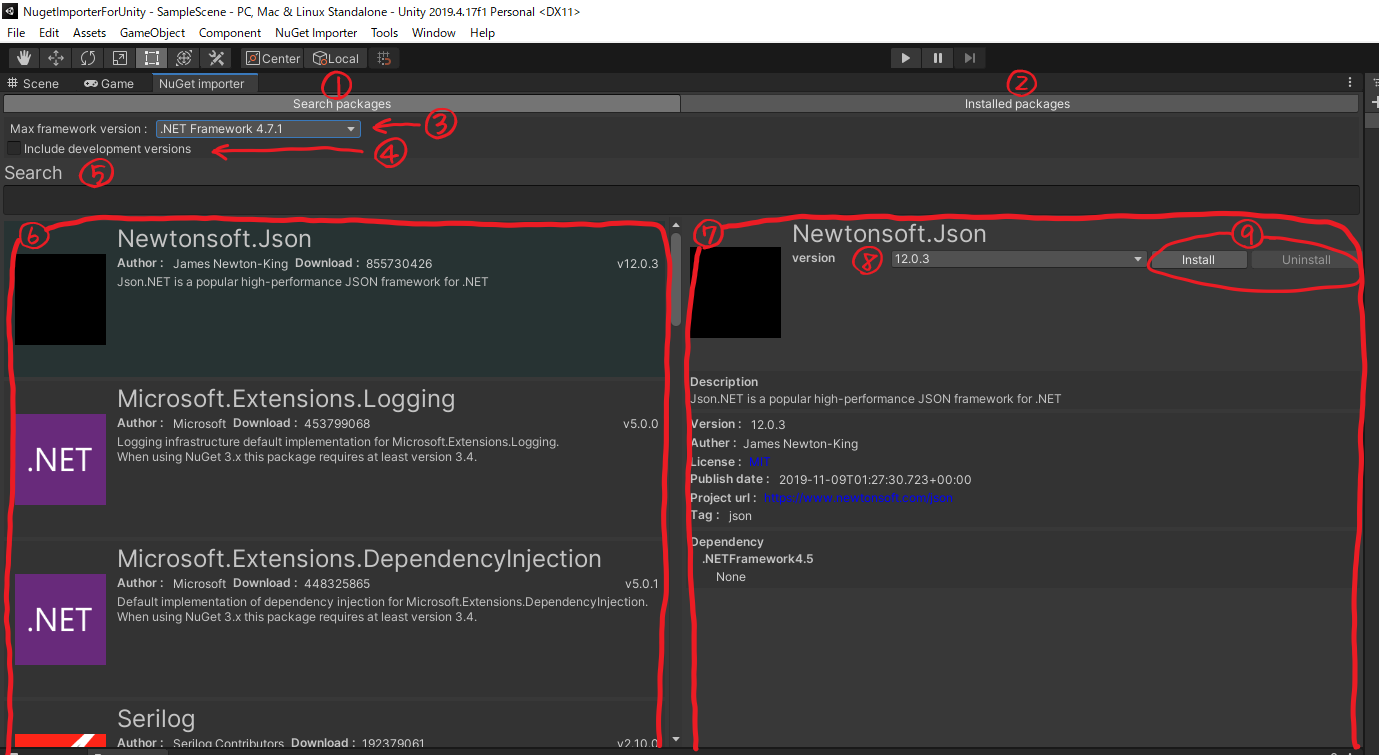
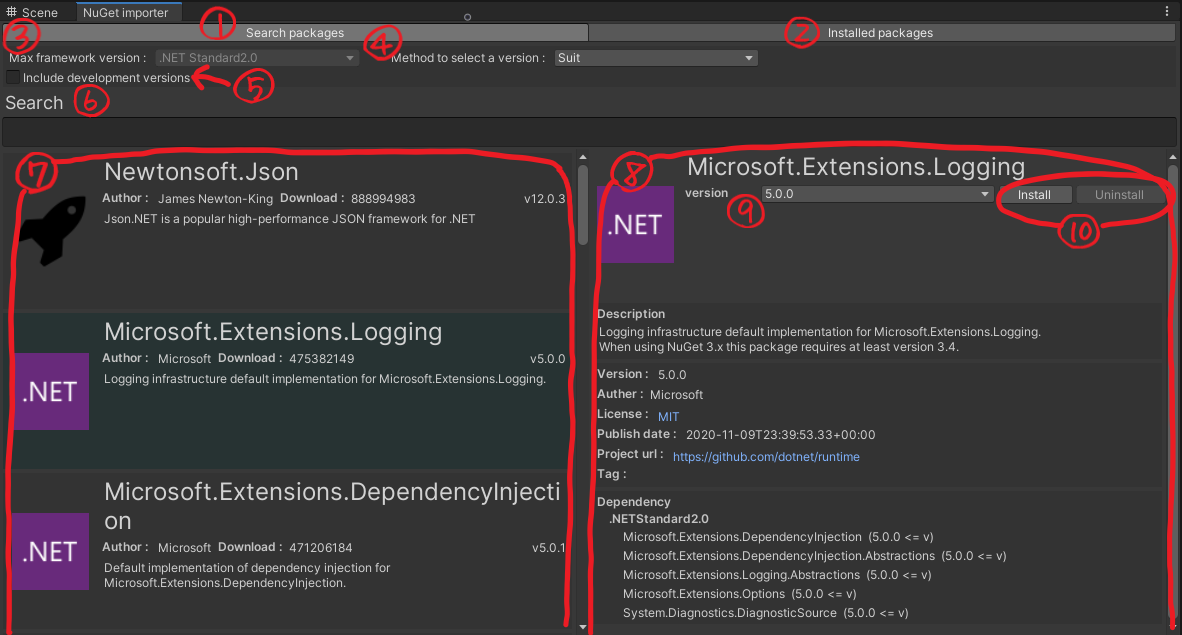
Update docments

Changed region(s): [[0.0, 0.0, 1.0, 1.0]]

diff --git a/docs/documentation_jp/usage.html b/docs/documentation_jp/usage.html
@@ -128,6 +128,7 @@
 <li>インストールされているものから検索するときのモード。</li>
 <li>フレームワークの設定。</li>
 <li>非安定版も含めるかどうか。</li>
+<li>依存関係のパッケージのバージョンの選択方法。</li>
 <li>検索語句の入力場所。（インクリメンタルサーチされる。）</li>
 <li>検索結果。</li>
 <li>パッケージの詳細情報。</li>

diff --git a/docs/documentation/usage.html b/docs/documentation/usage.html
@@ -127,7 +127,8 @@
 <li>Mode to search from NuGet.</li>
 <li>Mode to search from the installed packages.</li>
 <li>Framework settings.</li>
-<li>Whether include development version</li>
+<li>Whether include development version.</li>
+<li>Method of selecting the version of the dependency package.</li>
 <li>Input area for search words. (Incremental search.)</li>
 <li>Search results.</li>
 <li>Package details.</li>

diff --git a/NuGetImporterForUnity/Packages/NuGet Importer/Documentation~/README.md b/NuGetImporterForUnity/Packages/NuGet Importer/Documentation~/README.md
@@ -42,7 +42,8 @@ This is also fully support for native plugins.
 1. Mode to search from NuGet.
 1. Mode to search from the installed packages.
 1. Framework settings.
-1. Whether include development version
+1. Whether include development version.
+1. Method of selecting the version of the dependency package.
 1. Input area for search words. (Incremental search.)
 1. Search results.
 1. Package details.

diff --git a/NuGetImporterForUnity/Packages/NuGet Importer/Documentation~/README_jp.md b/NuGetImporterForUnity/Packages/NuGet Importer/Documentation~/README_jp.md
@@ -42,6 +42,7 @@
 1. インストールされているものから検索するときのモード。
 1. フレームワークの設定。
 1. 非安定版も含めるかどうか。
+1. 依存関係のパッケージのバージョンの選択方法。
 1. 検索語句の入力場所。（インクリメンタルサーチされる。）
 1. 検索結果。
 1. パッケージの詳細情報。

diff --git a/docFX/documentation_jp/usage.md b/docFX/documentation_jp/usage.md
@@ -58,6 +58,7 @@
 1. インストールされているものから検索するときのモード。
 1. フレームワークの設定。
 1. 非安定版も含めるかどうか。
+1. 依存関係のパッケージのバージョンの選択方法。
 1. 検索語句の入力場所。（インクリメンタルサーチされる。）
 1. 検索結果。
 1. パッケージの詳細情報。

diff --git a/docFX/documentation/usage.md b/docFX/documentation/usage.md
@@ -57,7 +57,8 @@
 1. Mode to search from NuGet.
 1. Mode to search from the installed packages.
 1. Framework settings.
-1. Whether include development version
+1. Whether include development version.
+1. Method of selecting the version of the dependency package.
 1. Input area for search words. (Incremental search.)
 1. Search results.
 1. Package details.
